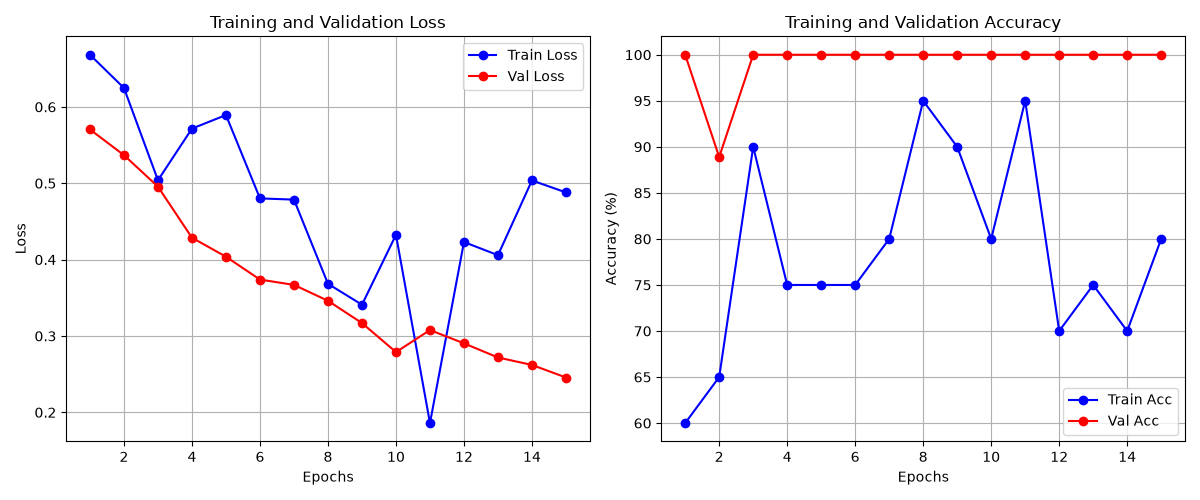
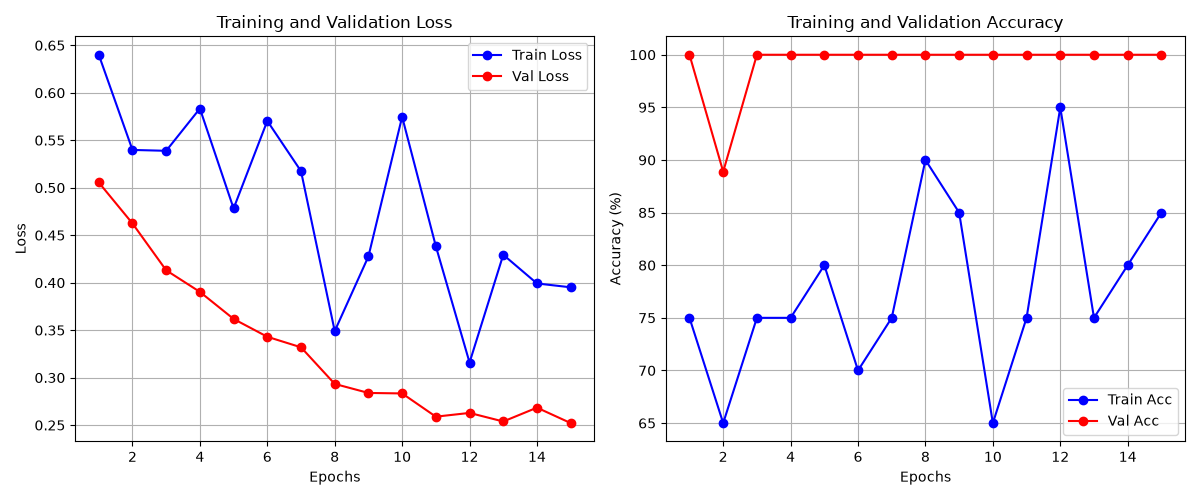
training

diff --git a/mobilenet_test.py b/mobilenet_test.py
@@ -38,7 +38,6 @@ print("\n\n", "="*10, '\n', 'probabilities = ', probabilities, '\n', "="*10, '\n
 categories = weights.meta["categories"]
 top5_prob, top5_catid = torch.topk(probabilities, 5)
 
-
 print("\nTop 5 Predictions:")
 for i in range(top5_prob.size(0)):
     category = categories[top5_catid[i]]

diff --git a/pi_camera_test.py b/pi_camera_test.py
@@ -18,7 +18,8 @@ try:
     import onnxruntime as ort
 except ImportError:
     print("Error: 'onnxruntime' is not installed.")
-    print("Run: pip install onnxruntime")
+    print("Run: pip install onn
+    xruntime")
     sys.exit(1)
 
 def preprocess_frame(frame):
